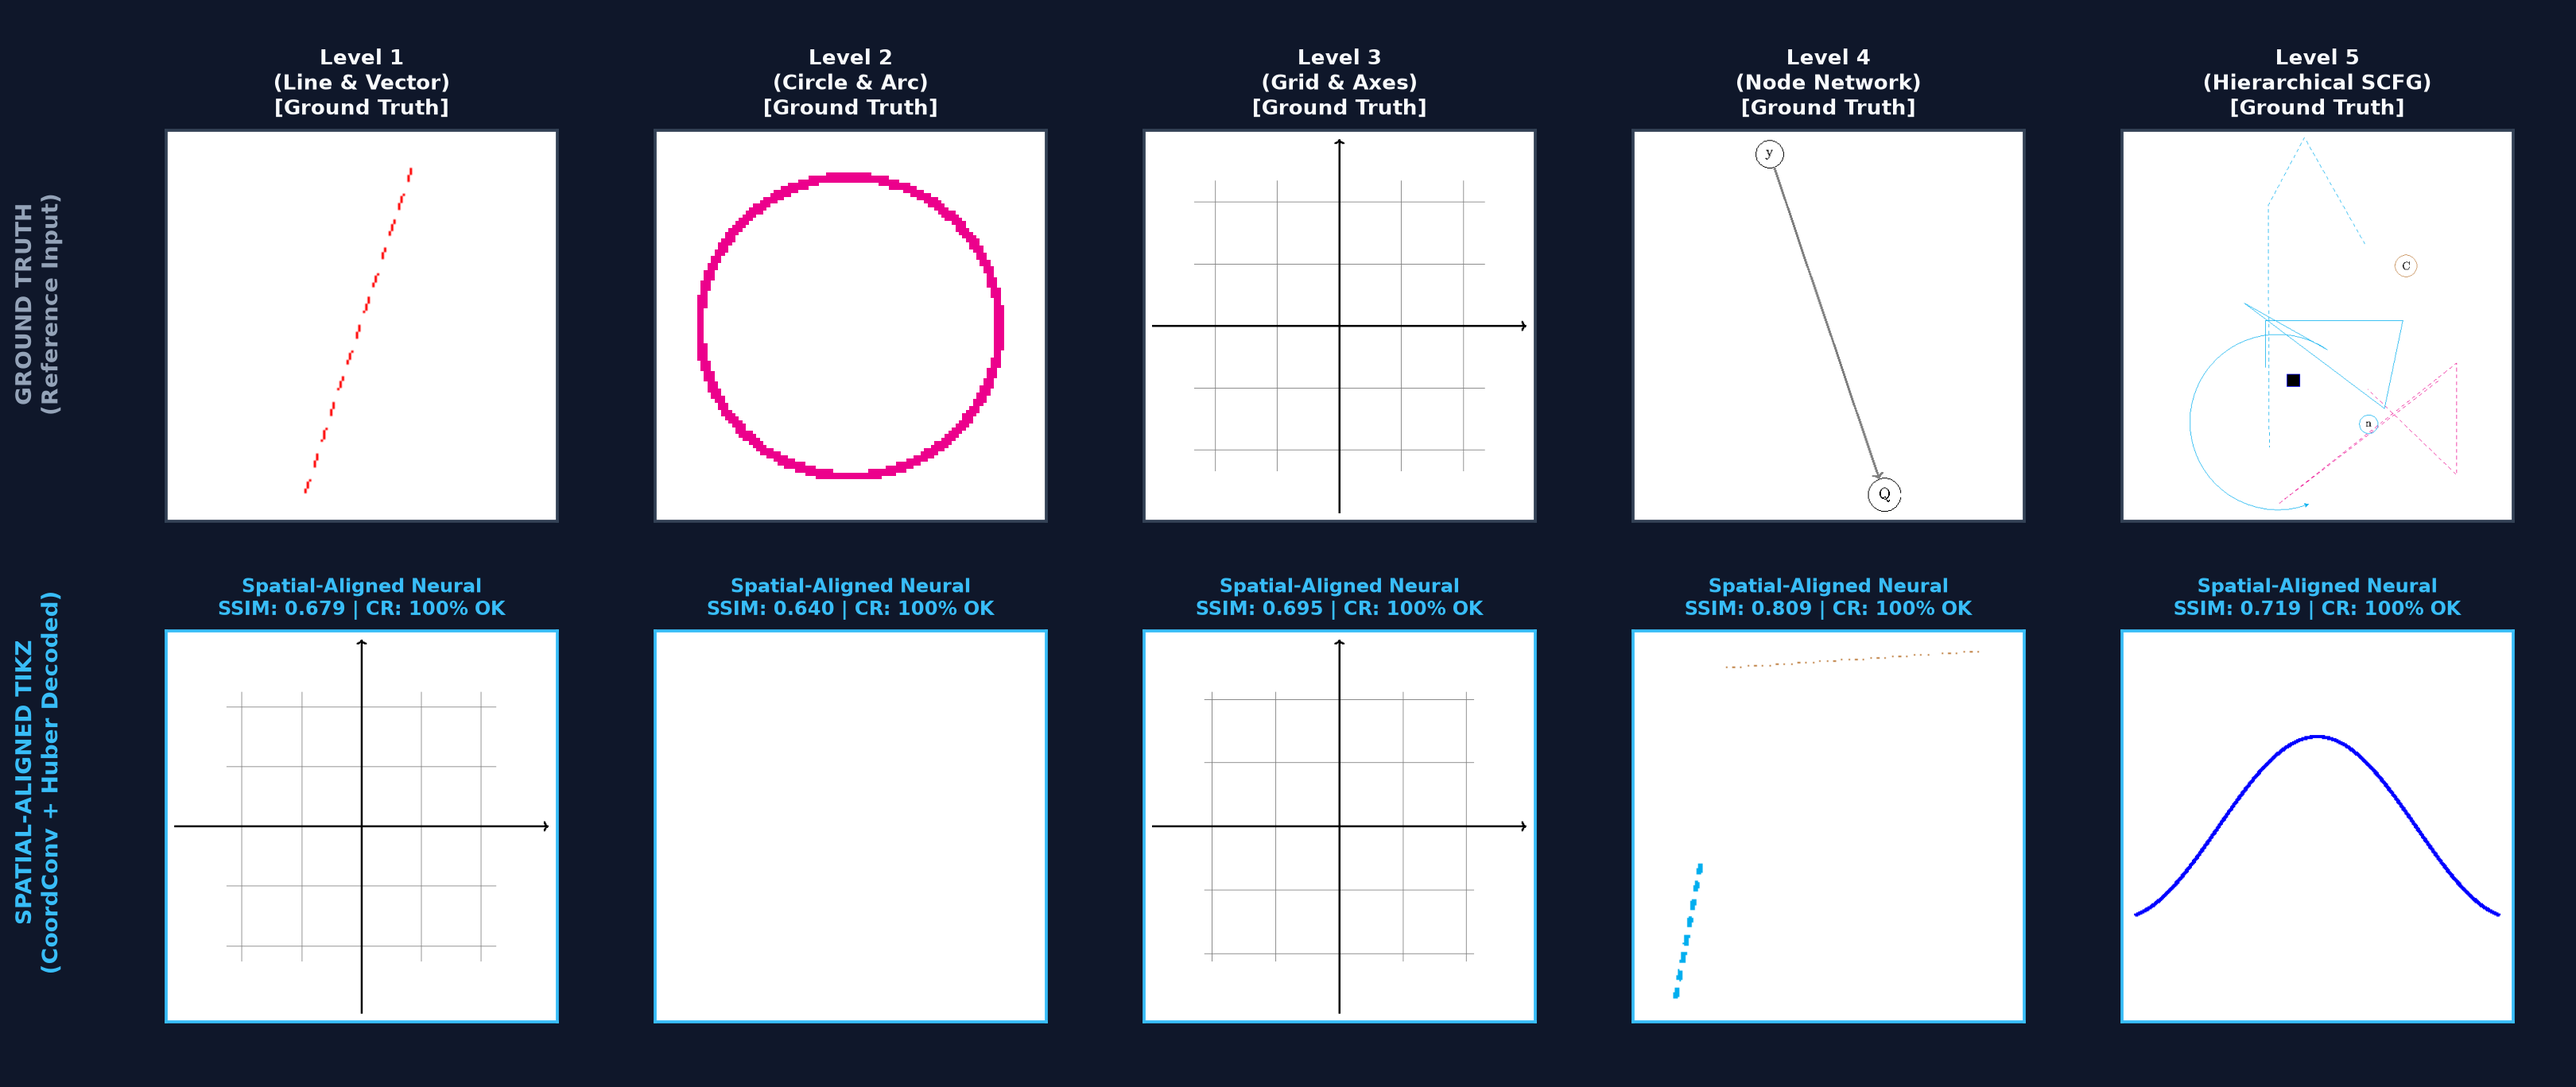
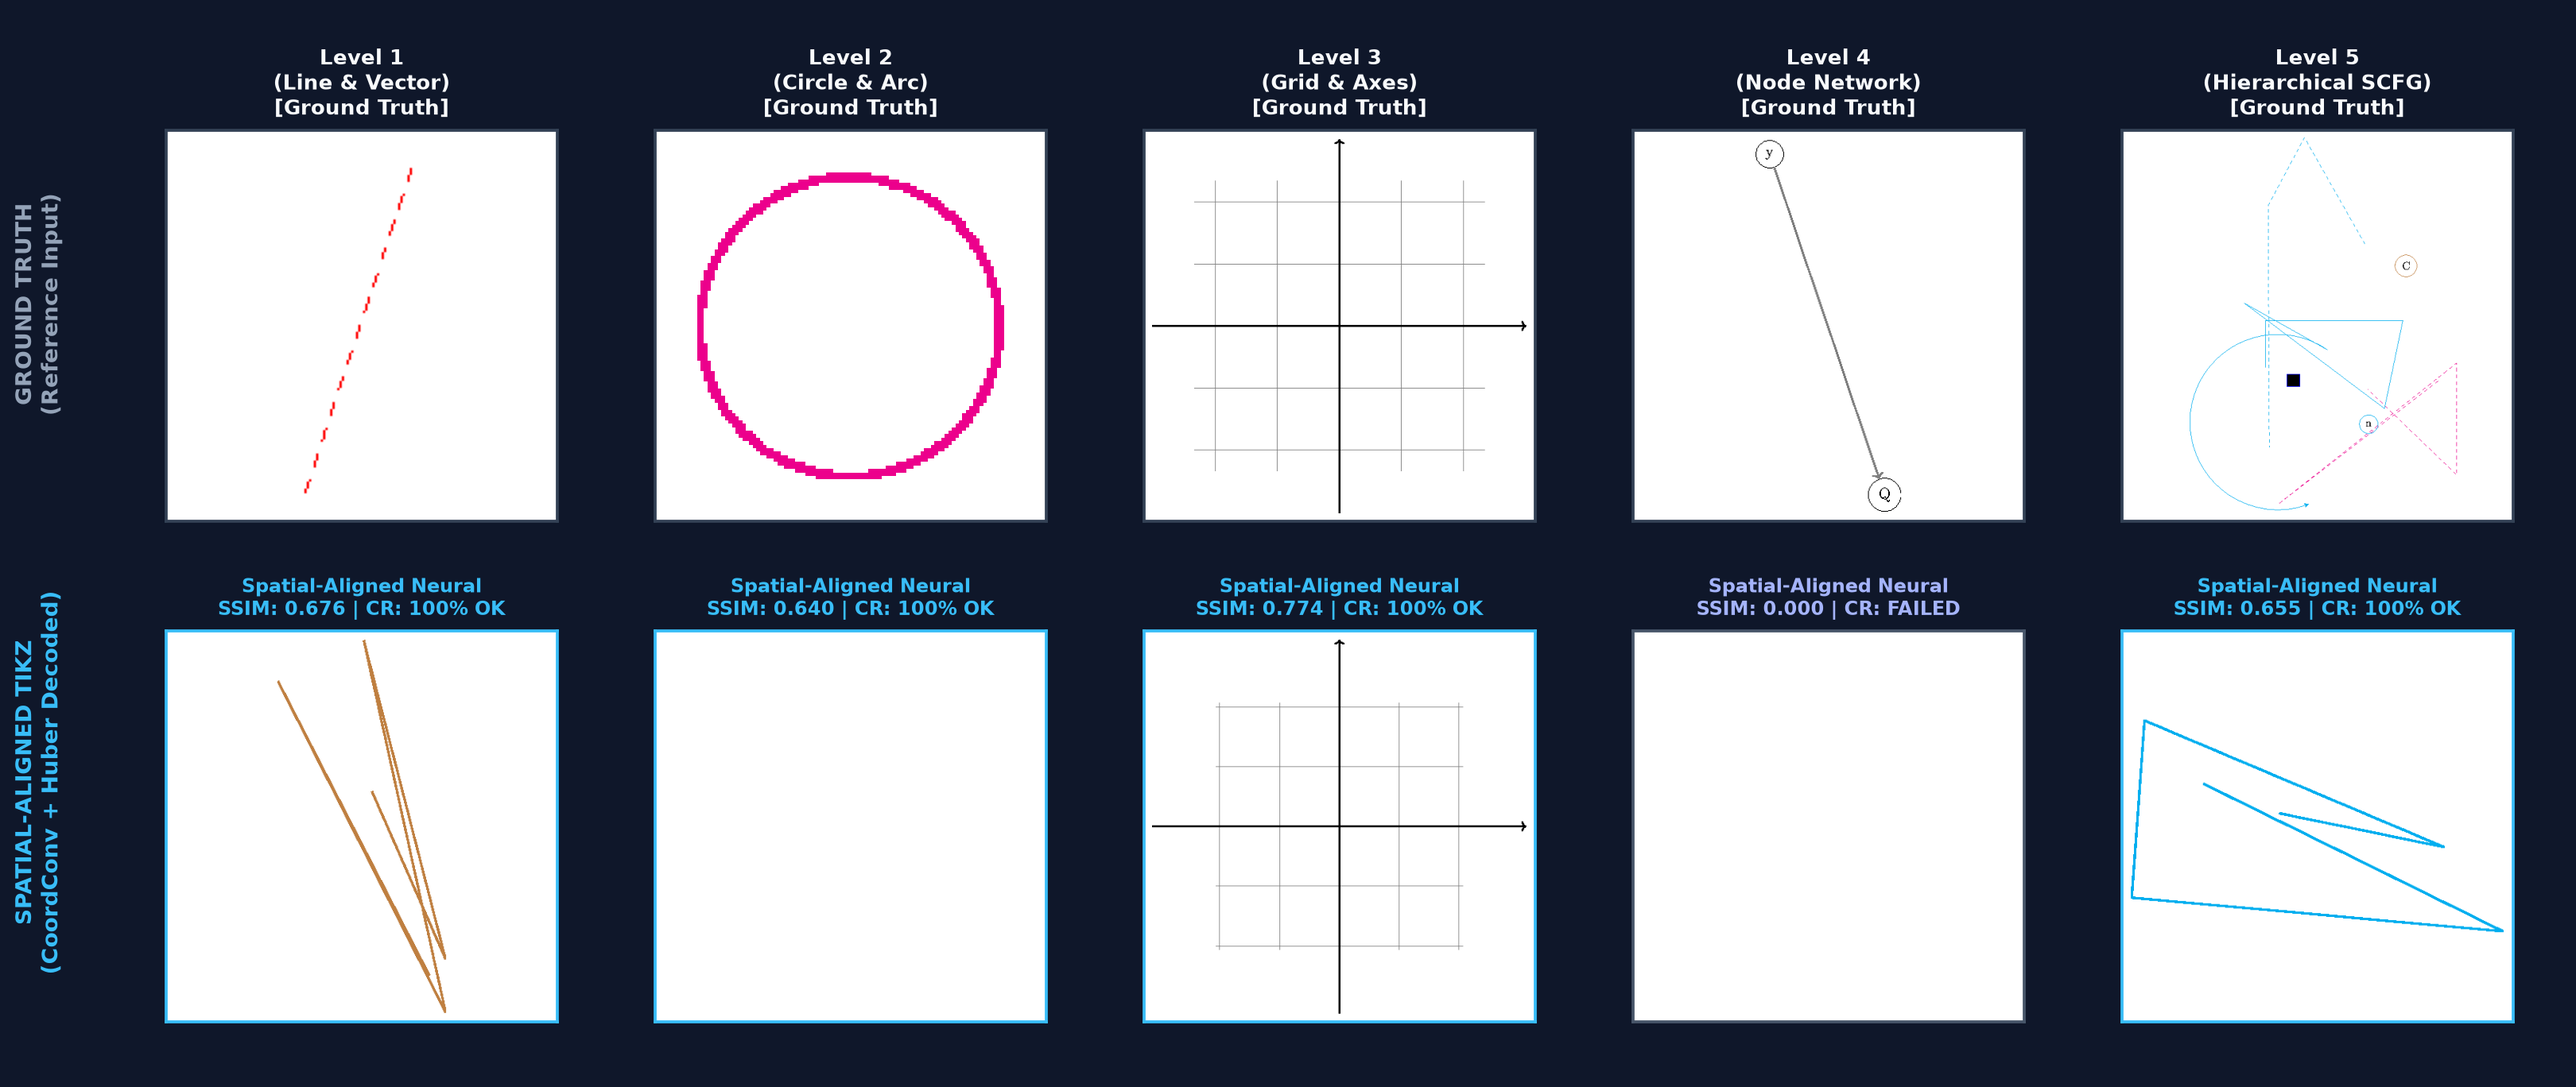
feat(showcase): update visual grid with curriculum v2 model predictions

diff --git a/scripts/generate_showcase_grid.py b/scripts/generate_showcase_grid.py
@@ -335,4 +335,32 @@ def generate_showcase(
 
 
 if __name__ == "__main__":
-    generate_showcase()
+    import argparse
+
+    parser = argparse.ArgumentParser(description="Generate showcase comparison grid")
+    parser.add_argument(
+        "--checkpoint",
+        type=str,
+        default="results/checkpoints/curriculum_v2_best.pt"
+        if os.path.exists("results/checkpoints/curriculum_v2_best.pt")
+        else "checkpoints/grounded_best_model.pt",
+        help="Path to trained model checkpoint",
+    )
+    parser.add_argument(
+        "--vocab",
+        type=str,
+        default="dataset/encoded/vocabulary.json",
+        help="Path to vocabulary JSON",
+    )
+    parser.add_argument(
+        "--output-dir",
+        type=str,
+        default="results/showcase",
+        help="Output directory for grid",
+    )
+    args = parser.parse_args()
+    generate_showcase(
+        checkpoint_path=args.checkpoint,
+        vocabulary_path=args.vocab,
+        output_dir=args.output_dir,
+    )

diff --git a/results/showcase/sample_03_pred.tex b/results/showcase/sample_03_pred.tex
@@ -1,1 +1,1 @@
-\begin{tikzpicture} \draw [ step = 1.7 , gray , thin ] ( -3.6 , -3.6 ) grid ( 3.6 , 3.6 ) ; \draw [ -> , thick ] ( -5 , 0 ) -- ( 5 , 0 ) ; \draw [ -> , thick ] ( 0 , -5 ) -- ( 0 , 5 ) ; \end{tikzpicture}
+\begin{tikzpicture} \draw [ step = 1.6 , gray , thin ] ( -3.3 , -3.3 ) grid ( 3.3 , 3.3 ) ; \draw [ -> , thick ] ( -5 , 0 ) -- ( 5 , 0 ) ; \draw [ -> , thick ] ( 0 , -5 ) -- ( 0 , 5 ) ; \end{tikzpicture}

diff --git a/results/showcase/sample_01_pred.tex b/results/showcase/sample_01_pred.tex
@@ -1,1 +1,1 @@
-\begin{tikzpicture} \draw [ step = 1.6 , gray , thin ] ( -3.6 , -3.6 ) grid ( 3.6 , 3.6 ) ; \draw [ -> , thick ] ( -5 , 0 ) -- ( 5 , 0 ) ; \draw [ -> , thick ] ( 0 , -5 ) -- ( 0 , 5 ) ; \end{tikzpicture}
+\begin{tikzpicture} \draw [ very thick , brown ] ( -0.4 , -3.9 ) -- ( -4.1 , 3.3 ) -- ( 0 , -4.8 ) -- ( -2 , 4.3 ) -- ( 0 , -3.5 ) -- ( -1.8 , 0.6 ) ; \end{tikzpicture}

diff --git a/results/showcase/sample_05_pred.tex b/results/showcase/sample_05_pred.tex
@@ -1,1 +1,1 @@
-\begin{tikzpicture} \draw [ domain = -3.2 : 3.2 , smooth , very thick , blue ] plot ( \x , { 1.6 * cos ( 0.9 * \x r ) } ) ; \end{tikzpicture}
+\begin{tikzpicture} \draw [ very thick , cyan ] ( -0.7 , 0.4 ) -- ( 3.2 , -0.4 ) -- ( -3.9 , 2.6 ) -- ( -4.2 , -1.6 ) -- ( 4.6 , -2.4 ) -- ( -2.5 , 1.1 ) ; \end{tikzpicture}

diff --git a/results/showcase/sample_04_pred.tex b/results/showcase/sample_04_pred.tex
@@ -1,1 +1,1 @@
-\begin{tikzpicture} \draw [ thin , brown , dotted ] ( -2.8 , 4.4 ) -- ( 0.2 , 4.6 ) ; \draw [ very thick , cyan , dashed ] ( -3.1 , 2.1 ) -- ( -3.4 , 0.5 ) ; \end{tikzpicture}
+\begin{tikzpicture} \draw [ domain = -4.6 : 4.6 , smooth , thick , black ] plot ( \x , { 1.1 * ( \x ) * \x r ) } ) ; \end{tikzpicture}

diff --git a/results/showcase/sample_02_pred.tex b/results/showcase/sample_02_pred.tex
@@ -1,1 +1,1 @@
-\begin{tikzpicture} \draw [ very thick , black ] ( 2.3 , 0.3 ) arc ( 5 : 5 : 1 ) ; \end{tikzpicture}
+\begin{tikzpicture} \draw [ very thick , magenta ] ( 0.2 , -1.8 ) arc ( 5 : 5 : 2 ) ; \end{tikzpicture}
